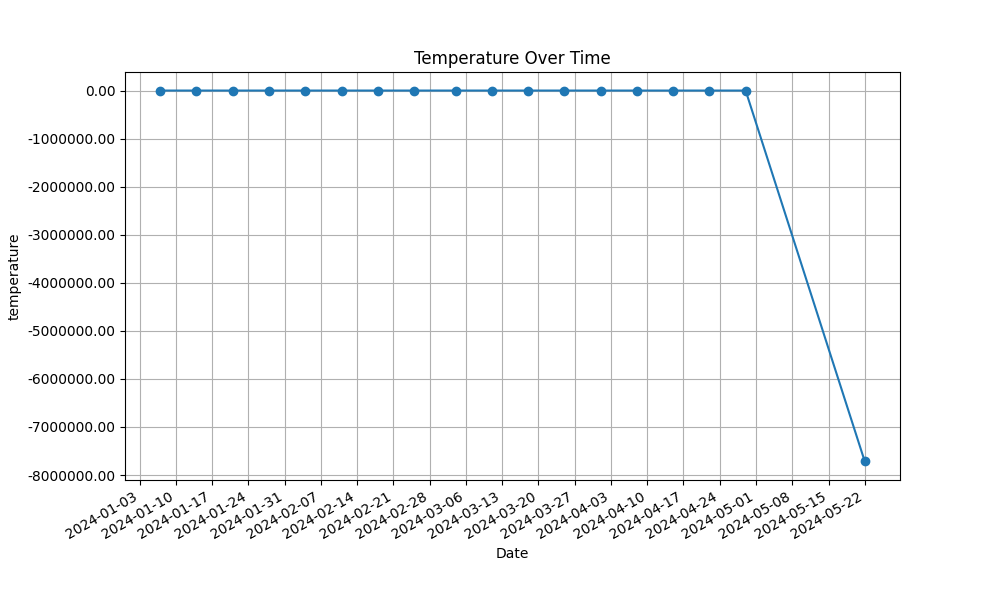
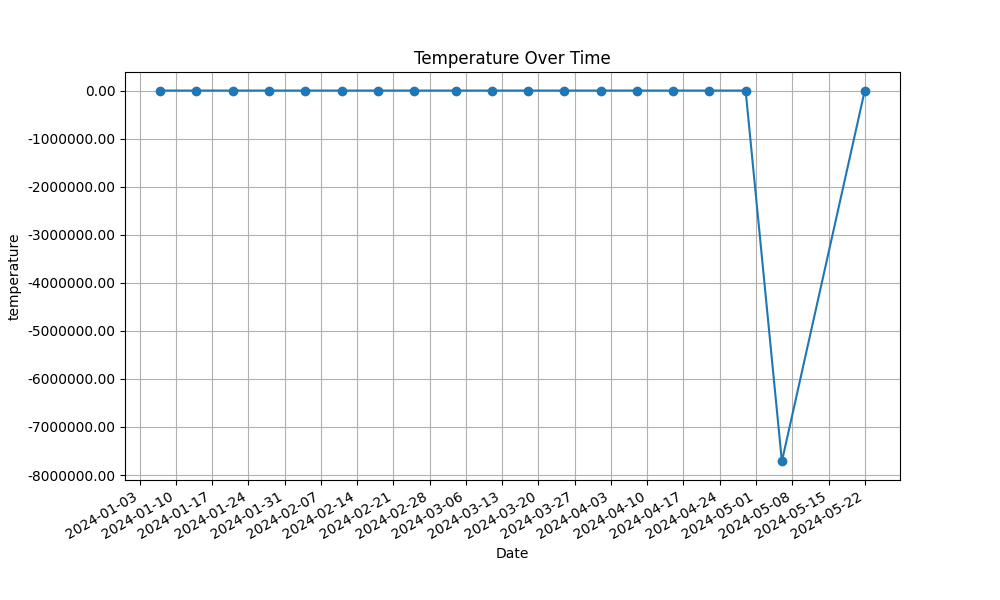
chore: weekly stats update

diff --git a/Data.md b/Data.md
@@ -1,6 +1,6 @@
 # Data
 
-_Generated on **2024-05-22** for data in range **2024-04-30 00:00:00** to **2024-05-06 07:00:00**._
+_Generated on **2024-05-22** for data in range **2024-05-07 00:00:00** to **2024-05-13 07:00:00**._
 
 The schema for the raw data is as follows:
 
@@ -39,13 +39,13 @@ And three additional columns for run metadata:
 
 ## Averages & cumulative metrics
 
-| Job Date   | Range Start   | Range End     | Number Of Devices | Cell Id Mode    | Total Precipitation | Temperature  | Humidity | Precipitation Accumulated |
-|------------|---------------|---------------|-------------------|-----------------|---------------------|--------------|----------|---------------------------|
-| 2024-05-22 | 1714435200000 | 1714978800000 | 5114              | 871eda743ffffff | 138362663927.396    | -7717981.656 | 73.158   | 1265.789                  |
+| Job Date   | Range Start   | Range End     | Number Of Devices | Cell Id Mode    | Total Precipitation | Temperature | Humidity | Precipitation Accumulated |
+|------------|---------------|---------------|-------------------|-----------------|---------------------|-------------|----------|---------------------------|
+| 2024-05-22 | 1715040000000 | 1715583600000 | 5136              | 871eda743ffffff | 137629272987.679    | 17.563      | 69.602   | 1256.850                  |
 
 | Wind Speed | Wind Gust | Wind Direction | Illuminance | Solar Irradiance | Fo Uv   | Uv Index | Precipitation Rate | Pressure |
 |------------|-----------|----------------|-------------|------------------|---------|----------|--------------------|----------|
-| 0.817      | 1.130     | 177.856        | 293707.848  | 2312.202         | 830.740 | 1.083    | 0.095              | 989.016  |
+| 0.739      | 1.022     | 178.599        | 331633.709  | 2610.893         | 810.133 | 1.229    | 0.055              | 992.566  |
 
 ## Precipitation accumulated maps
 
